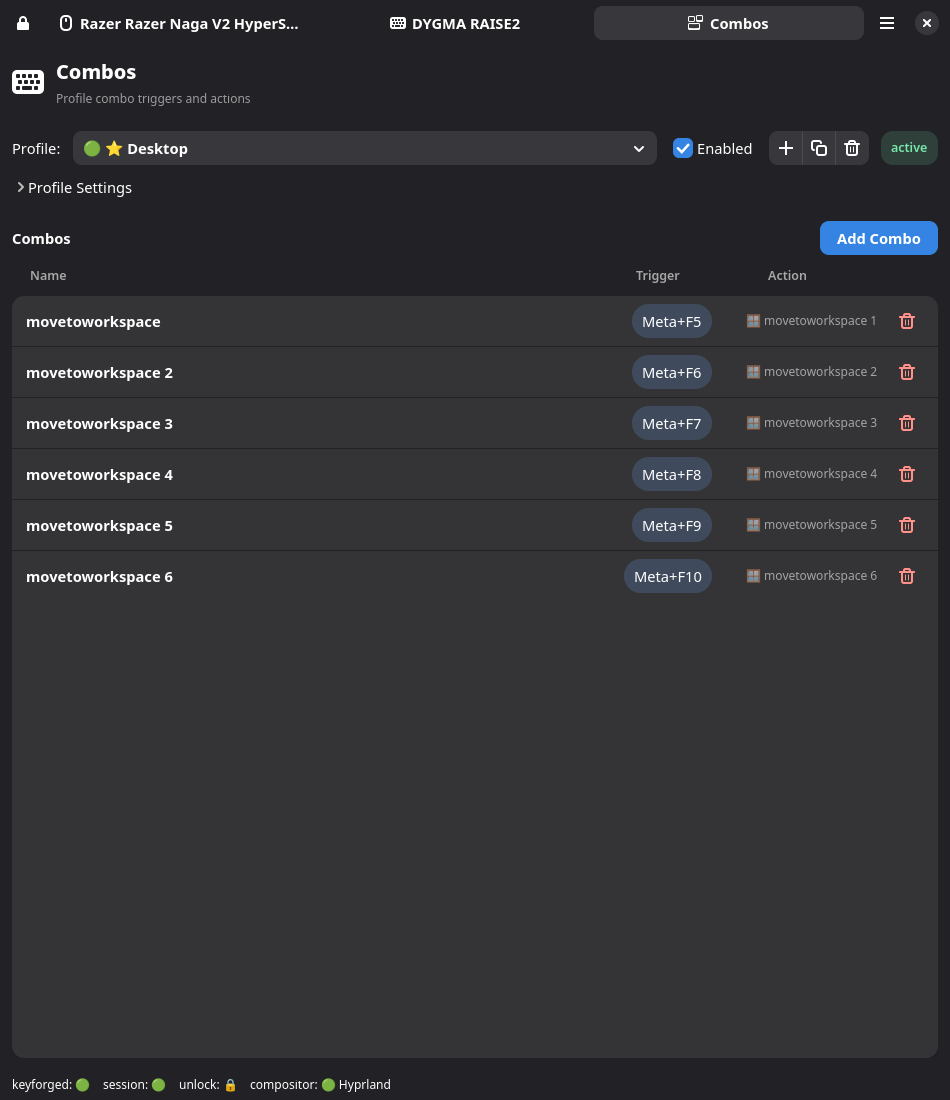
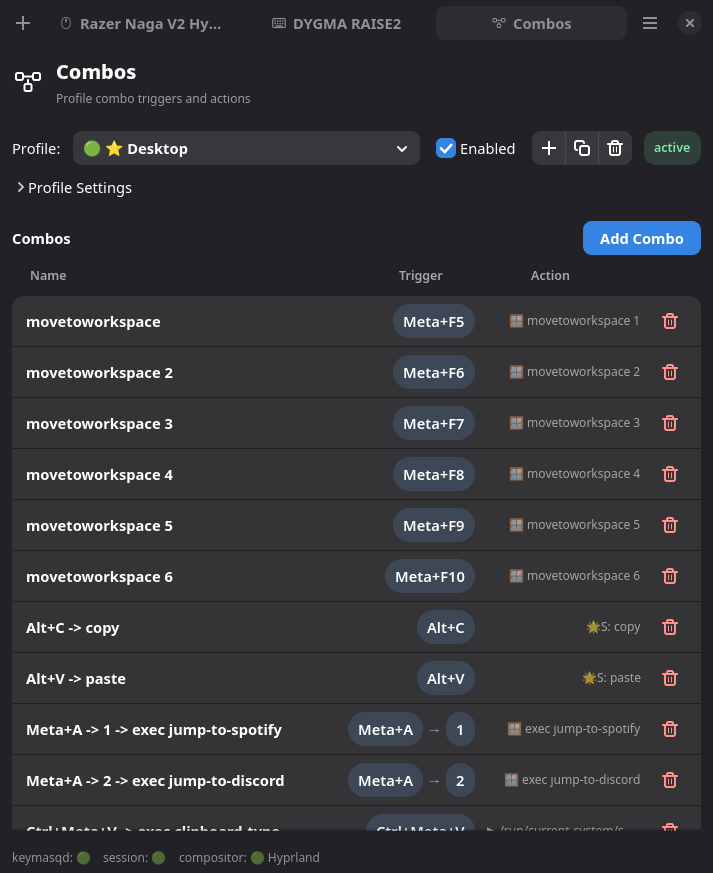
Refresh getting started and recording unlock status
- Rewrite the getting started guide with new screenshots
- Simplify the recording unlock indicator in the status bar
- Update release notes and metainfo wording

diff --git a/keymasq/gui/window.py b/keymasq/gui/window.py
@@ -732,15 +732,21 @@ class MainWindow(Adw.ApplicationWindow):
         )
         self.status_bar.append(self.session_status)
 
-        unlock_status_label = Gtk.Label(label="unlock: 🔒")
-        unlock_status_label.add_css_class("caption")
-        self.status_bar.append(unlock_status_label)
-        self._unlock_status_label = unlock_status_label
-
         self.compositor_status = Gtk.Label()
         self.compositor_status.add_css_class("caption")
         self._update_compositor_status()
         self.status_bar.append(self.compositor_status)
+
+        status_spacer = Gtk.Box()
+        status_spacer.set_hexpand(True)
+        self.status_bar.append(status_spacer)
+
+        unlock_status_label = Gtk.Label(label="")
+        unlock_status_label.add_css_class("caption")
+        unlock_status_label.set_halign(Gtk.Align.END)
+        unlock_status_label.set_visible(False)
+        self.status_bar.append(unlock_status_label)
+        self._unlock_status_label = unlock_status_label
 
         toolbar.add_bottom_bar(self.status_bar)
 
@@ -1129,15 +1135,19 @@ class MainWindow(Adw.ApplicationWindow):
         if self._unlock_status_label is None:
             return
 
-        if not self._recording_unlocked:
-            text = "unlock: 🔒"
+        show_unlock_status = self._recording_unlock_required and self._recording_unlocked
+        self._unlock_status_label.set_visible(show_unlock_status)
+        if not show_unlock_status:
+            self._unlock_status_label.set_label("")
+            self._unlock_status_label.set_tooltip_text(None)
+            return
+
+        if self._recording_unlock_source == "runtime":
+            text = "capture: 🟢 runtime unlock"
+        elif self._recording_unlock_source == "persistent":
+            text = "capture: 🟢 persistent unlock"
         else:
-            if self._recording_unlock_source == "runtime":
-                text = "unlock: 🟢 runtime"
-            elif self._recording_unlock_source == "persistent":
-                text = "unlock: 🟢 persistent"
-            else:
-                text = "unlock: 🟢"
+            text = "capture: 🟢 unlocked"
 
         owner_text = "owner=yes" if self._recording_refresh_owner else "owner=no"
         lease_text = "lease=claimed" if self._recording_refresh_lease_id else "lease=none"

diff --git a/docs/GETTING_STARTED.md b/docs/GETTING_STARTED.md
@@ -1,123 +1,53 @@
 # Getting Started
 
-This guide walks you through your first remap after installing Keymasq.
+This guide walks you through your first remap after [installing Keymasq](INSTALL.md).
 
-## Open the GUI
+## Open Keymasq
 
-After installation, launch Keymasq from your application menu or run:
+Launch Keymasq from your application menu or run:
 
 ```bash
 keymasq
 ```
 
-The **Welcome** tab opens while Keymasq loads your devices and checks
-compositor support. The status bar at the bottom shows connection state —
-green indicators for keymasqd, session, and compositor mean everything is
-connected.
+The status bar at the bottom shows connection state. All indicators should be green before continuing.
 
-<!-- SCREENSHOT: Welcome tab showing "Loading devices..." with status bar at bottom -->
+![Welcome tab with status bar](assets/screenshots/keymasq_welcome.png)
 
-## Add Your First Device
+## Add Your Device
 
-Click the **+** button in the top left to open the **Add New Device** dialog.
-Keymasq shows detected devices with their hardware ID, interface count, and
-device types (Mouse, Keyboard, etc.).
+Click the **+** button in the top left. Select your device, pick a template, and click **Save**.
 
-Select a device from the list and click **Next**.
+![Add New Device dialog](assets/screenshots/keymasq_add_device.png)
 
-<!-- SCREENSHOT: Add New Device dialog with device list -->
+The device tab opens showing all available buttons.
 
-Keymasq asks how to configure the device based on its capabilities. For a
-keyboard with a trackpoint, you might see options like **Mouse + Keyboard**,
-**Mouse**, or **Keyboard**. Pick the template that matches what you want to
-remap and click **Save**.
+![Device tab with button grid](assets/screenshots/keymasq_device_fresh.png)
 
-<!-- SCREENSHOT: Template selection showing Mouse + Keyboard dropdown -->
+## Remap a Key
 
-The device tab opens showing all available buttons organized by category.
-Each button displays its current output (e.g., "→ Capslock" means it sends
-Capslock). The **Default** profile is selected automatically.
-
-![Device tab with button grid](assets/screenshots/keymasq_profile.png)
-
-## Create a Simple Remap
-
-Let's remap Caps Lock to Escape — a common first remap.
+Let's remap Caps Lock to Escape.
 
 1. Click **Capslock** in the Keyboard (Left) section.
-2. The mapping dialog opens. Select **Keyboard** on the left.
-3. Click **Esc** on the visual keyboard layout.
+2. Select **Keyboard** on the left.
+3. Click **Esc**.
 
-![Mapping dialog with Keyboard tab](assets/screenshots/keymasq_key_action_keyboard.png)
+![Mapping dialog](assets/screenshots/keymasq_map_capslock.png)
 
-The dialog closes and the key now shows its new mapping: "→ Esc".
+The key now shows its new mapping. Press Caps Lock anywhere — it sends Escape.
 
-## Test It
+![Capslock remapped to Escape](assets/screenshots/keymasq_capslock_remapped.png)
 
-Open any text editor and press Caps Lock. It should send Escape instead. Your
-remap is working.
-
-If you want to undo the remap, click the key again and choose **Passthrough**
-from the Special tab to clear the mapping from this profile.
-
-## Create a Profile (Optional)
-
-So far your mappings live in the **Default** profile, which is always active.
-To create a new profile for different mappings:
-
-1. Click the **+** button in the Profile row (next to the Enabled checkbox).
-2. Enter a name like "Gaming" or "Terminal".
-3. Click **Create**.
-
-<!-- SCREENSHOT: Create Profile dialog with name field -->
-
-The new profile is now selected. Any mappings you create will be saved to this
-profile. You can switch between profiles using the dropdown.
-
-## Make It App-Specific (Optional)
-
-To make a profile activate only when a specific app is focused:
-
-1. Select your profile from the **Profile** dropdown.
-2. Expand **Profile Settings** (collapsed by default).
-3. Set **Type** to **Conditional**.
-4. Click **Edit** next to Rules.
-
-<!-- SCREENSHOT: Profile Settings expanded showing Conditional selected -->
-
-The rules dialog opens. You can either:
-
-- Click **Capture Window** and then click the target application — Keymasq
-  fills in the class automatically.
-- Click **Add Rule** to add a rule manually. Set **Field** to `class` and
-  **Pattern** to the application class (e.g., `firefox` or `steam_app_730`).
-
-<!-- SCREENSHOT: Rules dialog with Add Rule showing Field and Pattern -->
-
-Click **Apply** to save. Now this profile's mappings only activate when that
-application is focused.
+To undo, click the key and choose **Passthrough** from the Special tab.
 
 ## Next Steps
 
-You've created your first remap and optionally set up a profile. Explore
-further:
+You've created your first remap. Explore further:
 
-- [Actions](ACTIONS.md) — all the action types available for mappings
-- [Profiles](PROFILES.md) — how profiles stack and merge
+- [Profiles](PROFILES.md) — create profiles for different apps or contexts
+- [Actions](ACTIONS.md) — all available action types
 - [Macros](MACROS.md) — record and play input sequences
 - [Combos](COMBOS.md) — trigger actions from key combinations
 - [Super Keys](SUPERKEYS.md) — tap, hold, and double-tap behaviors
 
-## Troubleshooting
-
-If remaps don't work:
-
-1. Check that both services are running:
-   ```bash
-   systemctl status keymasqd
-   systemctl --user status keymasq-session
-   ```
-
-2. Make sure the device is added and the profile is enabled.
-
-3. Check [Troubleshooting](TROUBLESHOOTING.md) for common issues.
+If remaps don't work, see [Troubleshooting](TROUBLESHOOTING.md).

diff --git a/CHANGELOG.md b/CHANGELOG.md
@@ -8,10 +8,7 @@ forward.
 ### Improved
 
 - Added ad hoc macro CLI commands for one-off macro playback and compilation.
-- Switched recording unlock to a runtime Polkit lease so recording access
-  follows the active permission state more directly.
-- Renamed passthrough actions to Clear Current-Profile Mapping for clearer
-  mapping reset behavior.
+- Removed the extra dialog before the recording Polkit prompt.
 
 ## 0.9.0
 
